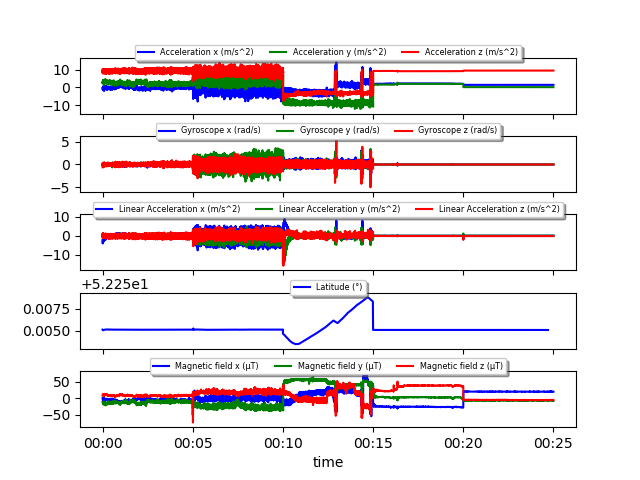
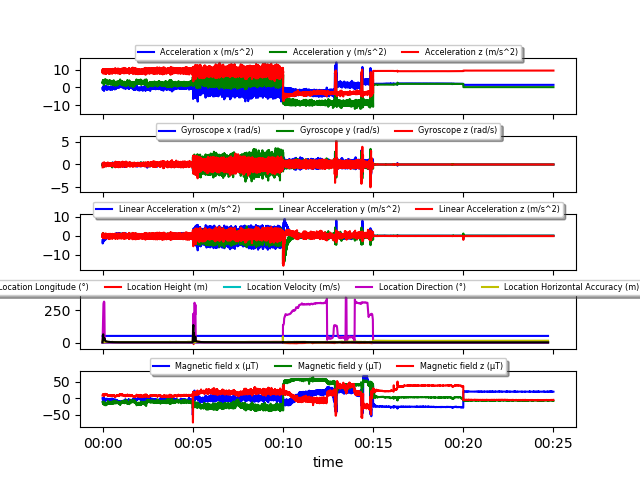
Concatenated plot

Changed region(s): [[0.0, 0.5625, 1.0, 0.7188]]

diff --git a/Python3Code/Assignment1_1.py b/Python3Code/Assignment1_1.py
@@ -68,16 +68,18 @@ if __name__ == '__main__':
 
        if task == 'final_plot':
               dataset = pickle.load(open('datasets/dataframes/concat_df_gran_250.pkl', 'rb'))
-              dataset.drop('Pressure (hPa)', axis=1)
+              # dataset = dataset.drop('Pressure (hPa)', axis=1)
+              dataset = dataset.rename(columns={x: 'Location ' + x for x in sensors['Location.csv']})
 
               DataViz = VisualizeDataset(__file__)
-              print(dataset.columns)
 
-              DataViz.plot_dataset(dataset, [x[0].split()[0] for x in sensors.values()],
+              names = [x[0].split()[0] for x in sensors.values()]
+              names[3] = 'Location'
+              DataViz.plot_dataset(dataset, names,
                                    ['like' for x in sensors.keys()],
                                    ['line' for x in sensors.keys()],
                                    save_path='concatenated_250')
-              
+
 
 
        if task != 'create_plots':
